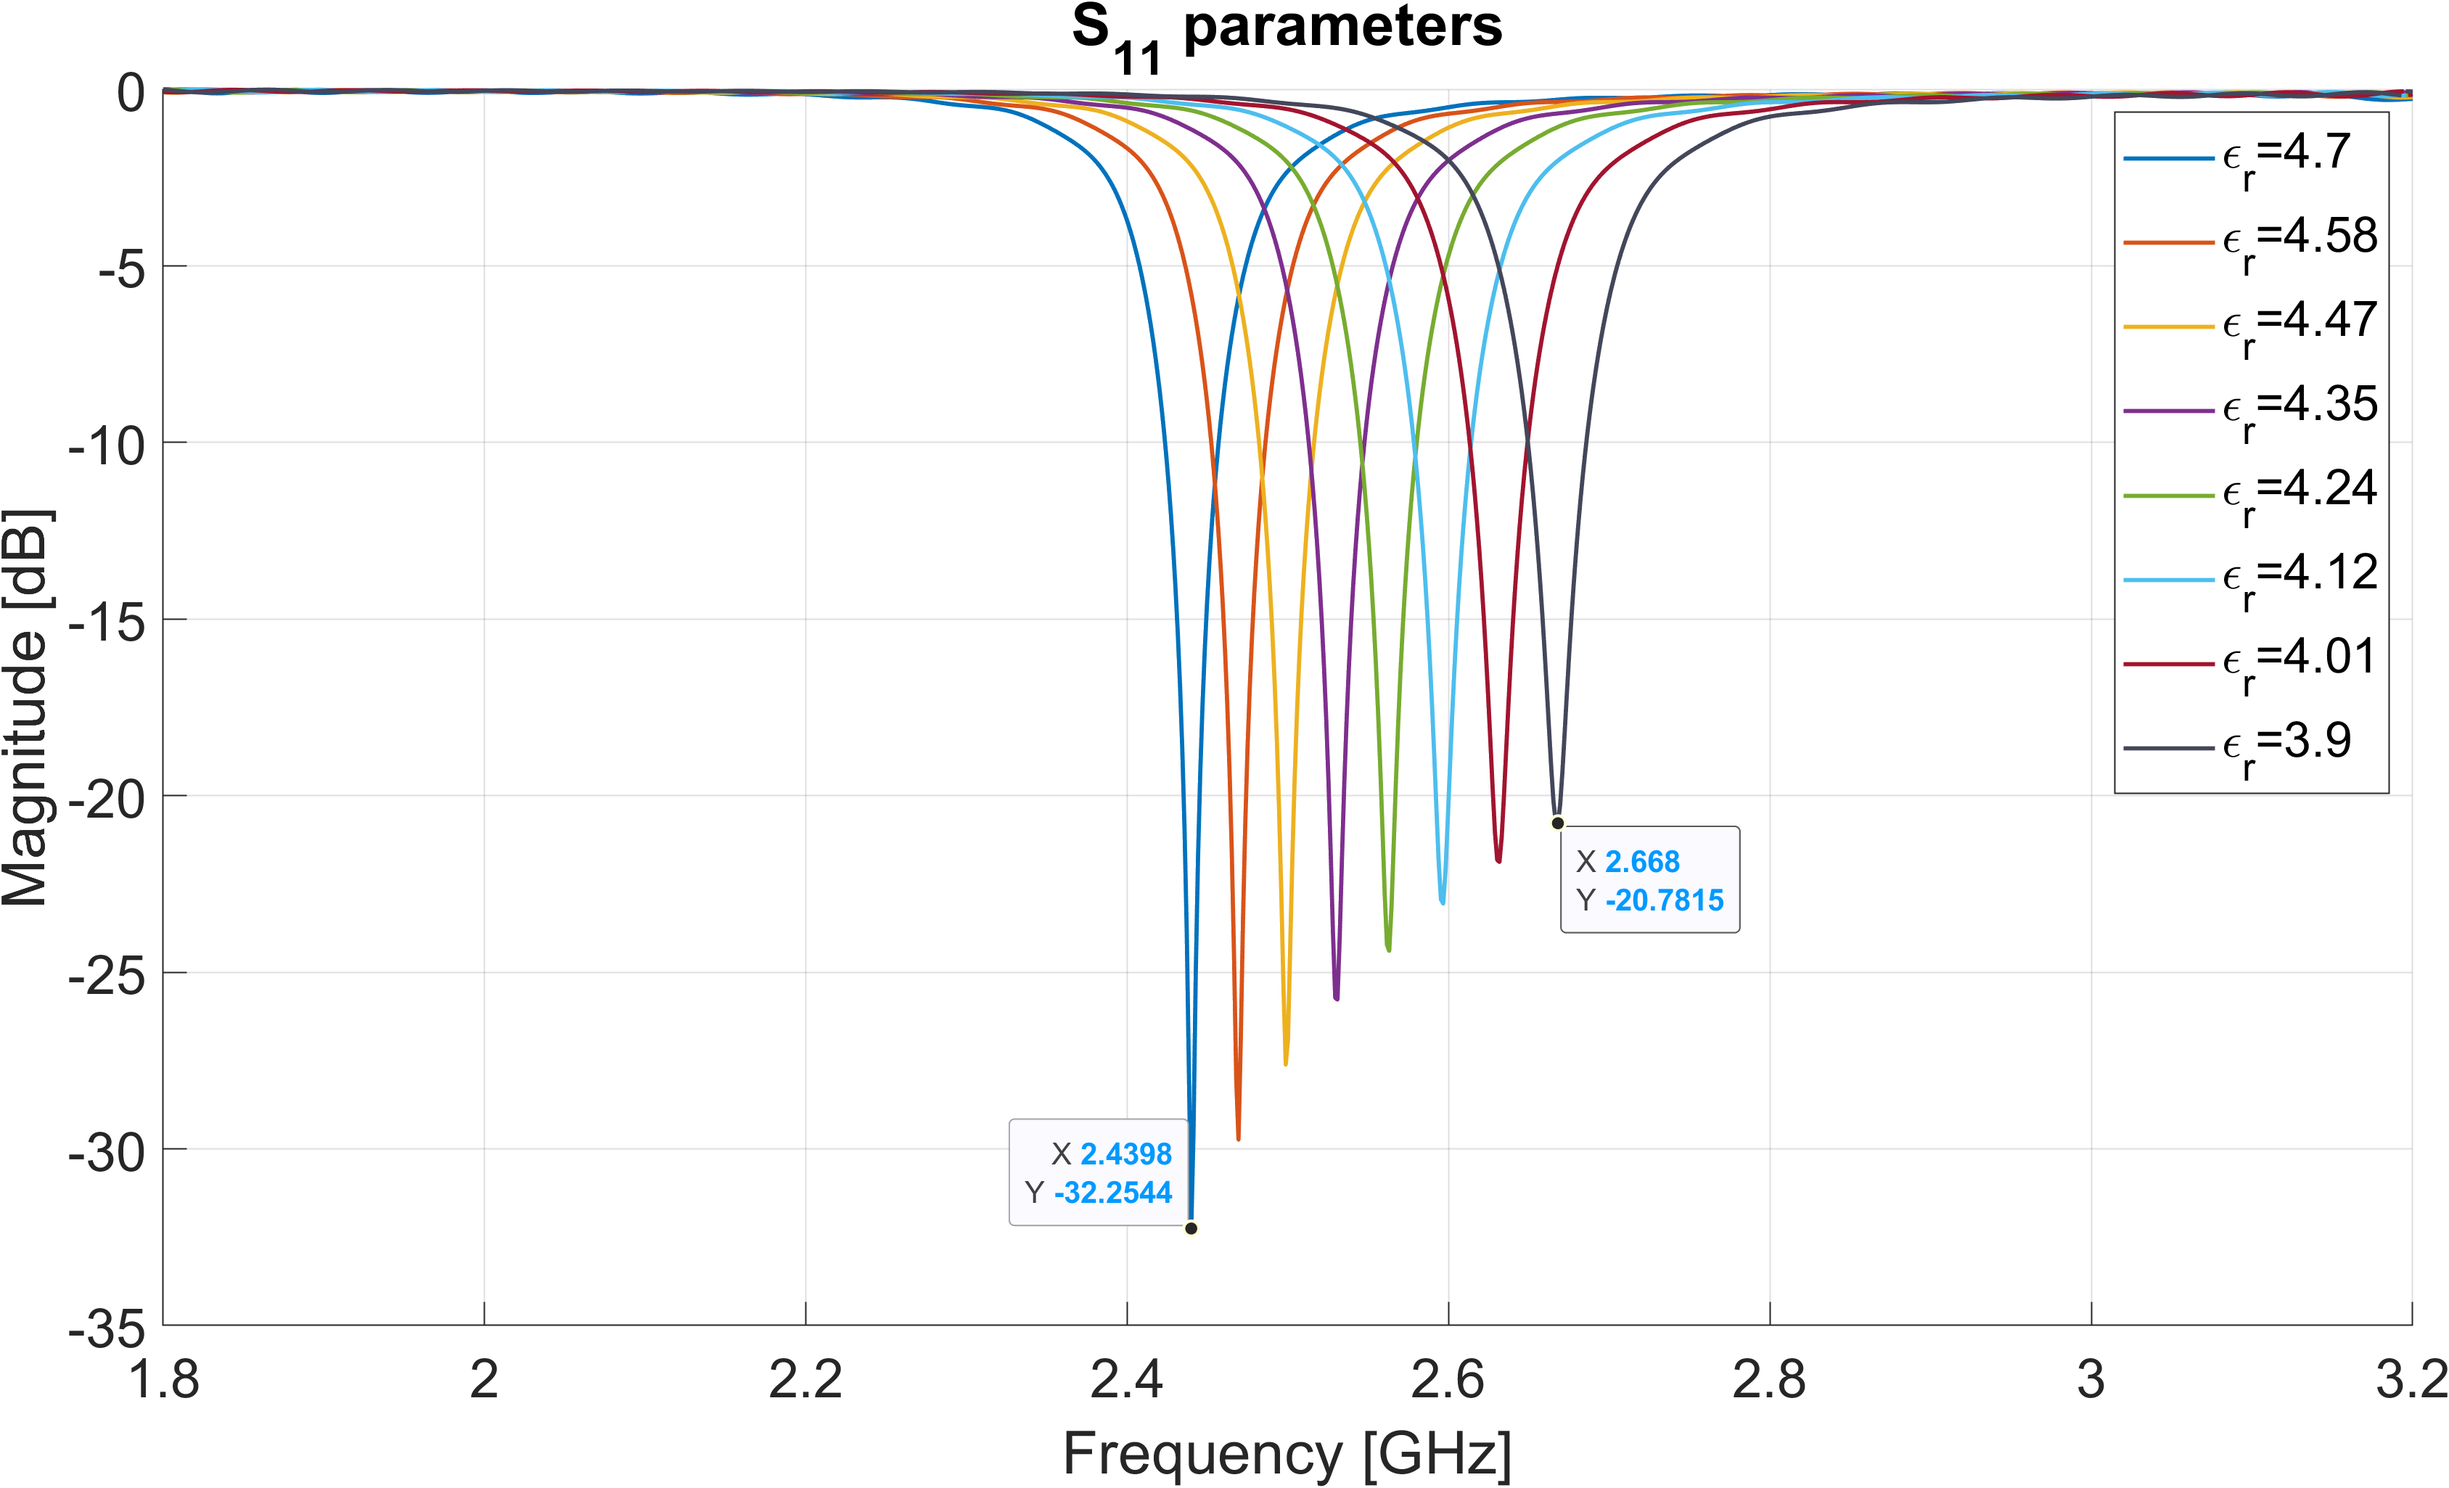
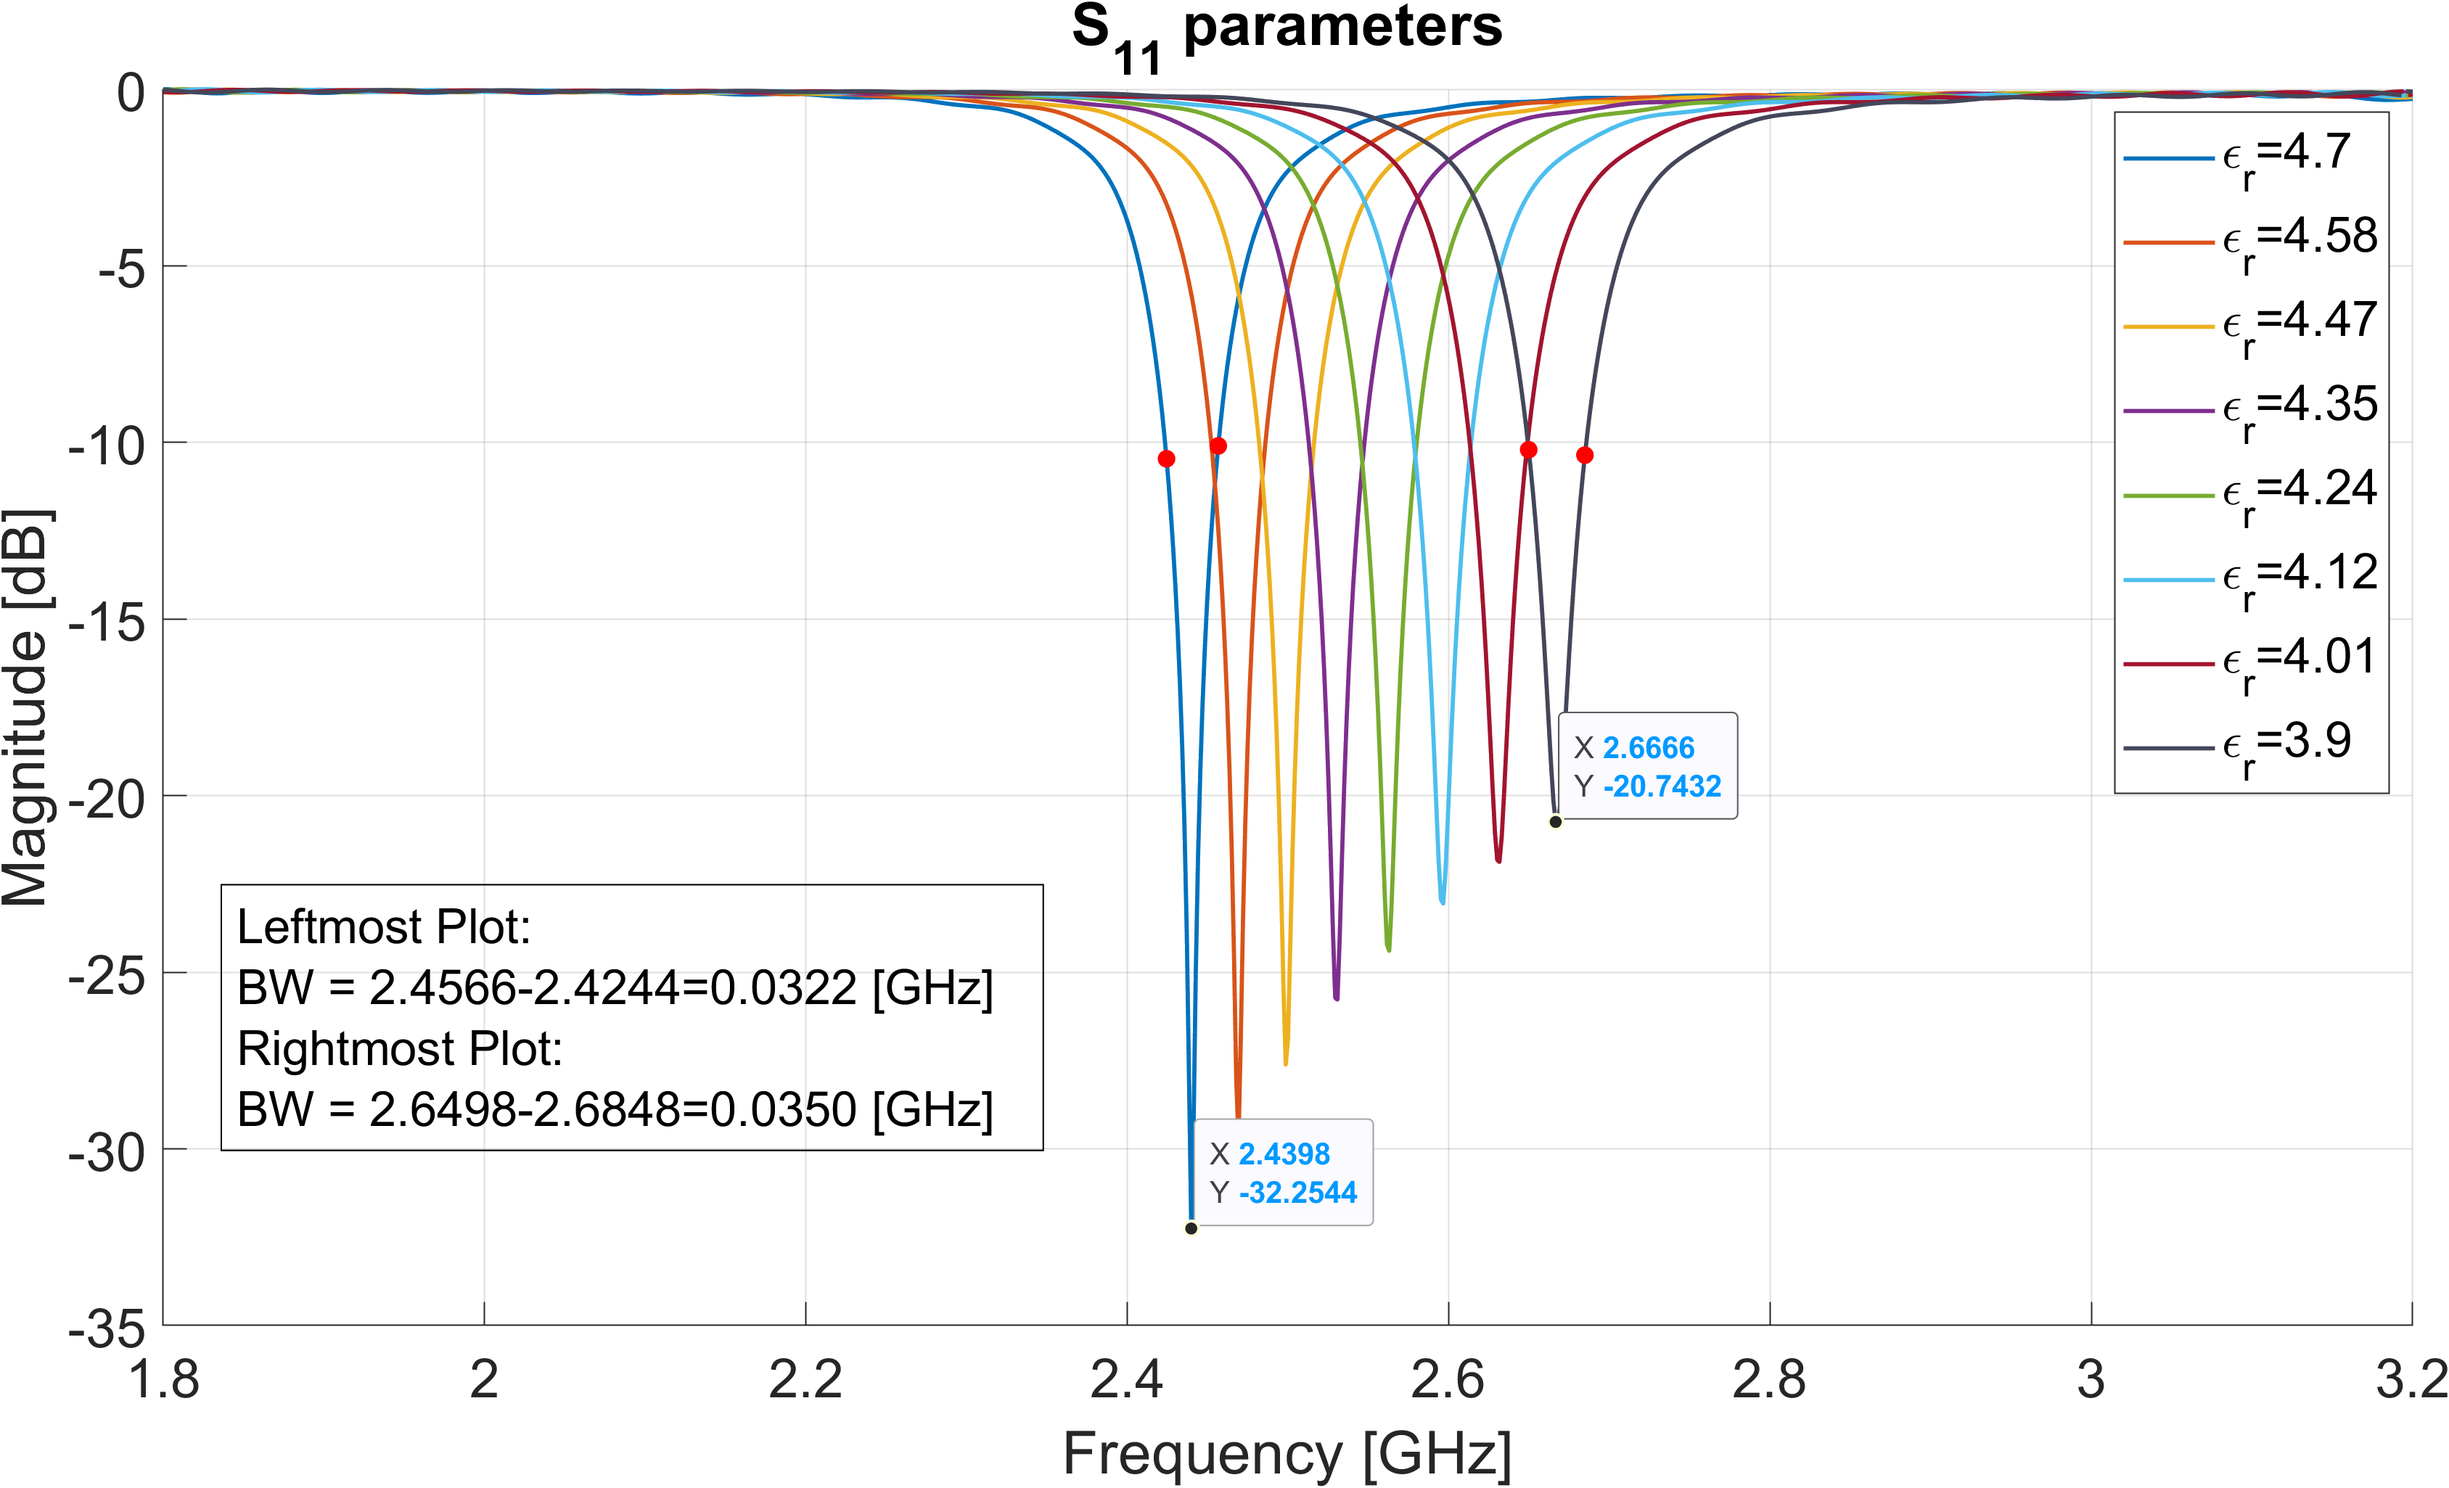
fix more figures

diff --git a/rf_front_end/patch_antenna/s11_vswr_plot_script.m b/rf_front_end/patch_antenna/s11_vswr_plot_script.m
@@ -77,7 +77,7 @@ grid on;
 % Define the number of rows per segment
 close all
 clear
-
+syms x
 T = readtable('paramsweepfinal_epsR.txt')
 rows_per_segment = 1003;
 
@@ -104,6 +104,31 @@ for i = 1:num_segments
     grid on
 end
 
+x = 2.4565999507904;
+y = -10.097303935531;
+           
+x1 = 2.4244000911713;
+y1 = -10.462214925528;
+
+           
+x2 = 2.6498000621796;
+y2 = -10.206814783037;
+
+           
+x3 = 2.6847999095917;
+y3 = -10.359687824995;
+
+plot(x,y,'r.','MarkerSize',20,'HandleVisibility','off');
+hold on
+plot(x1,y1,'r.','MarkerSize',20,'HandleVisibility','off');
+hold on
+plot(x2,y2,'r.','MarkerSize',20,'HandleVisibility','off');
+hold on
+plot(x3,y3,'r.','MarkerSize',20,'HandleVisibility','off');
+hold on
+dim = [0.15 0.1 0.3 0.3];
+str = {[sprintf('Leftmost Plot:\nBW = %.4f-%.4f=%.4f [GHz]',x,x1,x-x1)],[sprintf('Rightmost Plot:\nBW = %.4f-%.4f=%.4f [GHz]',x2,x3,x3-x2)]};
+annotation('textbox',dim,'String',str,'FitBoxToText','on','FontSize',16);
 
 % Finalize plot
 title('S_{11} parameters','FontSize',20);
